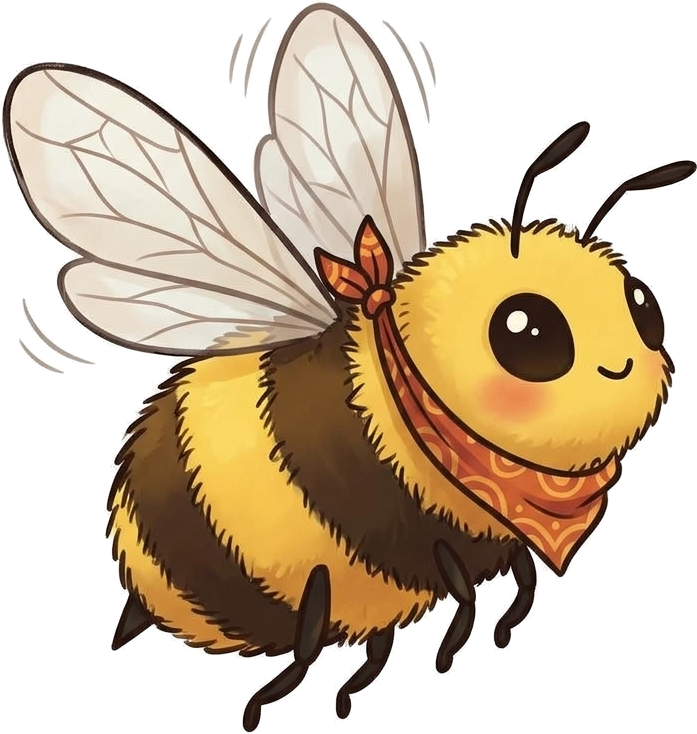
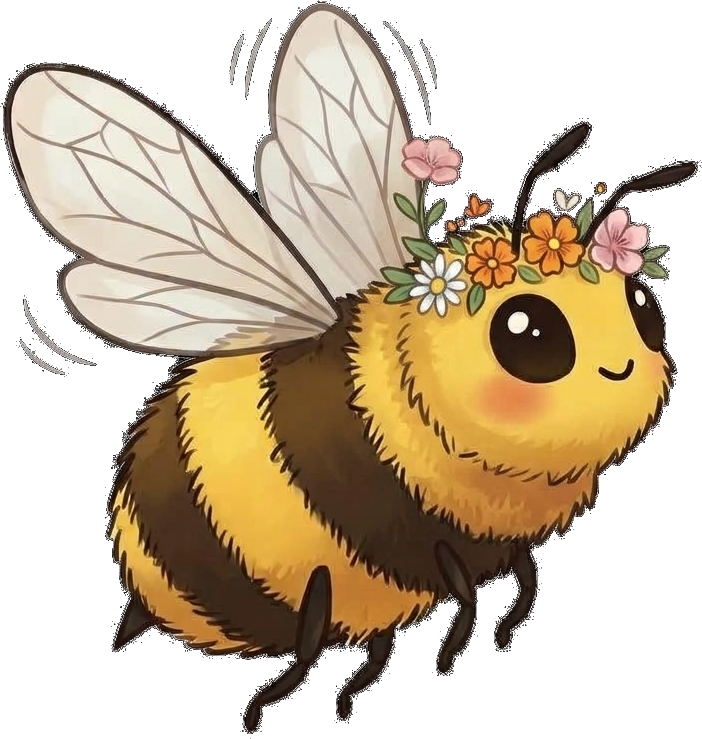
更新角色素材並修復技能按鈕點擊與遮擋問題

diff --git a/js/game.js b/js/game.js
@@ -14,11 +14,11 @@ import {
   WINDS, ORPHANS, PATTERN_TABLE, FLOWER_PATTERN_TABLE, countTiles, randomTileKind,
   evaluateHand, findWaits, formatWinBreakdown, isThirteenOrphans,
   withFlowers, flowerWin, flowerWinResult, sortPatternRows,
-} from './rules.js?v=1.4.158';
+} from './rules.js?v=1.4.159';
 import {
   wildcardWaitTiles, characterAbility, bonusFanFor, applyAbilityMoney,
   cooldownReady, startCooldown,
-} from './abilities.js?v=1.4.158';
+} from './abilities.js?v=1.4.159';
 
 const canvas = document.getElementById('game');
 const ctx = canvas.getContext('2d');
@@ -97,7 +97,7 @@ const CHARACTERS = [
   { id: 'pig-boat', name: '小豬', kind: 'boat' , ability: { kind: 'passive', id: 'pig', desc: '每局結束資金 +5% 利息' } },
   { id: 'sparrow', name: '麻雀', kind: 'fly' , ability: { kind: 'passive', id: 'sparrow', desc: '開局多一張百搭牌' } },
   { id: 'squid', name: '墨魚', kind: 'boat' , ability: { kind: 'active', id: 'squid', cdSeconds: 60, desc: '潑墨遮擋對手視野 5 秒' } },
-  { id: 'turtle', name: '烏龜', kind: 'boat' , ability: { kind: 'passive', id: 'turtle', desc: '輸錢 -10~50%' } },
+  { id: 'turtle', name: '玄武', kind: 'boat' , ability: { kind: 'passive', id: 'turtle', desc: '輸錢 -10~50%' } },
 ];
 const DEFAULT_CHARACTER = 'cat-boat';
 const characterImages = {};
@@ -6213,7 +6213,7 @@ function gameLoop(timestamp) {
   // Claim deadlines are wall-clock based and must stay identical on every
   // screen, so they tick even while a tab's animation loop is throttled.
   tickClaimBoxes();
-  renderAbilityButtons(); // refresh cooldown countdown
+  updateAbilityCountdown(); // refresh cooldown countdown
   syncInkOverlay();
   if (!simulationPaused()) {
     if (game.state !== S.WIN && game.state !== S.DRAW_GAME) {
@@ -6572,6 +6572,18 @@ function renderAbilityButtons() {
     renderAbilityButtons();
   });
   ui.abilityButtons.appendChild(btn);
+}
+
+/** 只更新既有技能按鈕的倒數與停用狀態，不重建元素（避免點擊監聽器被移除）。 */
+function updateAbilityCountdown() {
+  const btn = ui.abilityButtons?.querySelector('.ability-btn');
+  if (!btn) return;
+  const myId = btn.dataset.ability;
+  const cd = game.abilityState?.[game.seat]?.cooldowns ?? {};
+  const remain = Math.max(0, Math.ceil((cd[myId] ?? 0) - nowSec()));
+  const label = { squid: '潑墨', giraffe: '偷看', monkey: '偷錢', penguin: '冰凍' }[myId] ?? '技能';
+  btn.textContent = `技能: ${label}${remain ? ` ${remain}s` : ''}`;
+  btn.disabled = isFrozen(game.seat) || cooldownReady(cd, myId, nowSec()) === false;
 }
 
 /** 長頸鹿選目標：列出三位對手，點選後才送出偷看請求。 */
@@ -7571,13 +7583,13 @@ async function boot() {
       wildcardImage = new Image();
       wildcardImage.onload = () => resolve();
       wildcardImage.onerror = () => resolve();
-      wildcardImage.src = 'assets/tiles/wildcard.png?v=1.4.158';
+      wildcardImage.src = 'assets/tiles/wildcard.png?v=1.4.159';
     }),
     new Promise((resolve) => {
       inkSplashImage = new Image();
       inkSplashImage.onload = () => resolve();
       inkSplashImage.onerror = () => resolve();
-      inkSplashImage.src = 'assets/icons/ink-splash.png?v=1.4.158';
+      inkSplashImage.src = 'assets/icons/ink-splash.png?v=1.4.159';
     }),
   ]);
   game.images = { ...loaded.images, WILD: wildcardImage };

diff --git a/css/style.css b/css/style.css
@@ -852,8 +852,8 @@ body { background-color: #fffaf0; background-image: repeating-linear-gradient(90
 .room-player-character { width: 26px; height: 26px; object-fit: contain; margin-right: 6px; }
 
 /* Character ability UI: compact circular skill buttons and transient overlays. */
-.ability-buttons { display: flex; gap: 6px; justify-content: center; min-height: 30px; position: fixed; right: 8px; bottom: max(6px, env(safe-area-inset-bottom)); z-index: 66; }
-.ability-btn { border: 2px solid #8c1d1d; border-radius: 6px; background: #fffaf0; color: #1a1a1a; font-size: 13px; line-height: 1.2; padding: 4px 10px; cursor: pointer; min-width: 84px; text-align: center; }
+.ability-buttons { display: flex; gap: 6px; justify-content: center; min-height: 30px; position: fixed; right: 8px; bottom: max(6px, env(safe-area-inset-bottom)); z-index: 66; pointer-events: none; width: max-content; }
+.ability-btn { pointer-events: auto; border: 2px solid #8c1d1d; border-radius: 6px; background: #fffaf0; color: #1a1a1a; font-size: 13px; line-height: 1.2; padding: 4px 10px; cursor: pointer; min-width: 84px; text-align: center; }
 .ability-btn:disabled { opacity: 0.45; cursor: default; }
 .giraffe-target-picker { display: flex; gap: 6px; justify-content: center; }
 .giraffe-target-btn { margin: 2px; }

diff --git a/index.html b/index.html
@@ -9,7 +9,7 @@
 <link rel="preconnect" href="https://fonts.googleapis.com" />
 <link rel="preconnect" href="https://fonts.gstatic.com" crossorigin />
 <link href="https://fonts.googleapis.com/css2?family=Noto+Sans+TC:wght@400;500;700&display=swap" rel="stylesheet" />
-<link rel="stylesheet" href="css/style.css?v=1.4.158" />
+<link rel="stylesheet" href="css/style.css?v=1.4.159" />
 </head>
 <body>
 <canvas id="game" aria-label="釣魚遊戲畫面"></canvas>
@@ -65,7 +65,7 @@
 </header>
   <div id="inkOverlay" class="ink-overlay" hidden></div>
 
-<div id="abilityButtons" class="ability-buttons credits-link" aria-label="角色技能"></div>
+<div id="abilityButtons" class="ability-buttons" aria-label="角色技能"></div>
 
 <div id="loading" class="modal show" role="status">
   <div class="modal-card small">
@@ -359,6 +359,6 @@
 </section>
 
 <script src="https://cdn.jsdelivr.net/npm/peerjs@1.5.4/dist/peerjs.min.js" onerror="this.onerror=null;this.src='js/vendor/peerjs.min.js'"></script>
-<script type="module" src="js/game.js?v=1.4.158"></script>
+<script type="module" src="js/game.js?v=1.4.159"></script>
 </body>
 </html>

diff --git a/CHANGELOG.md b/CHANGELOG.md
@@ -1,3 +1,9 @@
+## 1.4.159 — 角色素材更新與技能按鈕修復
+
+- 更新長頸鹿、猴子、鳳凰、蜜蜂、烏龜的角色圖片；烏龜更名為玄武。
+- 修正技能按鈕因逐幀重建而無法點擊的問題；倒數改為只更新文字。
+- 修正技能按鈕容器阻擋畫面點擊（iOS 無法操作）的問題。
+
 ## 1.4.158 — 顯示格式與技能按鈕樣式
 
 - 提及玩家與角色時一律改為 `ID(角色)`，並使用英文括號。

diff --git a/README.md b/README.md
@@ -1,6 +1,6 @@
 # 香港麻雀釣魚
 
-**立即遊玩：** https://timmylaikh.github.io/Mahjong-fishing/?v=1.4.158
+**立即遊玩：** https://timmylaikh.github.io/Mahjong-fishing/?v=1.4.159
 
 一個**純靜態**的香港麻雀釣魚小遊戲：在海底釣起麻將牌，湊成四組一將並胡牌。沒有框架、沒有打包步驟；所有規則判定都由 `js/rules.js` 這個純模組負責，因此 `node tests/rules.test.mjs` 可以直接在 Node 執行。
 
